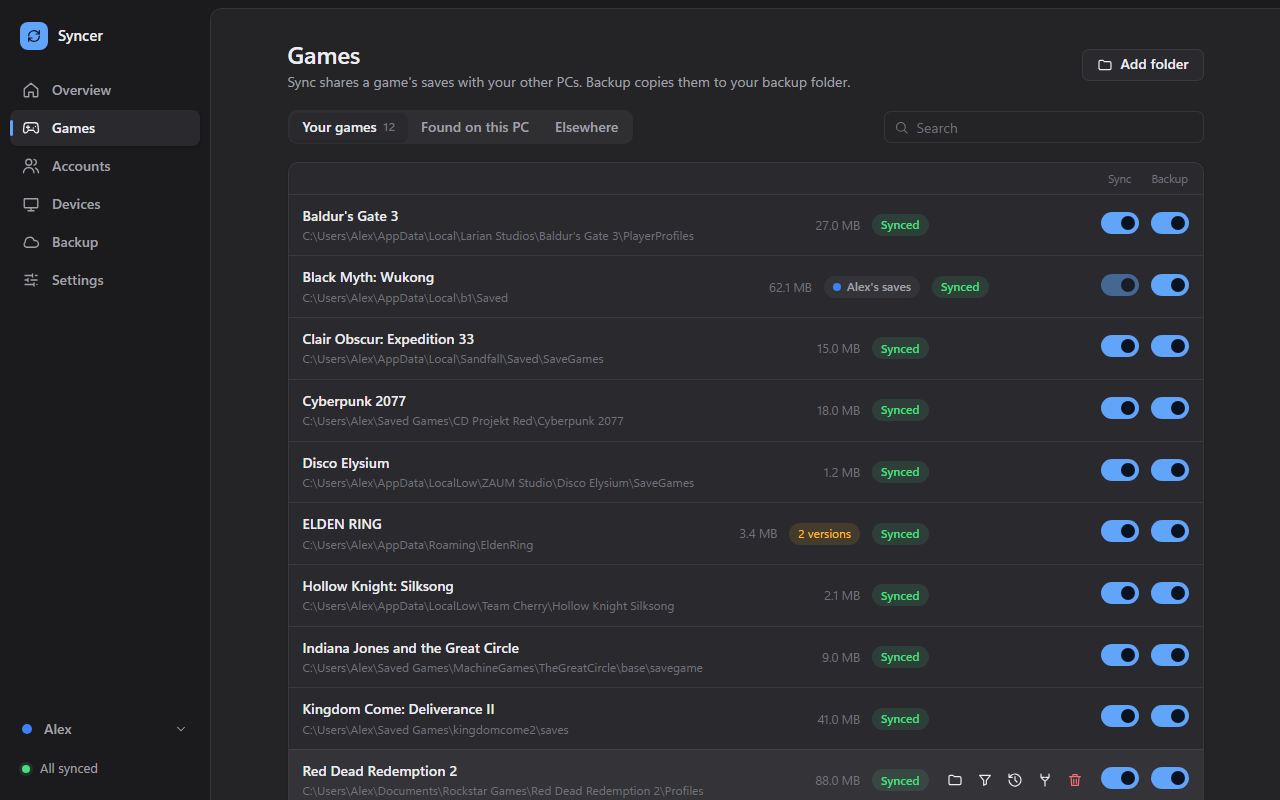
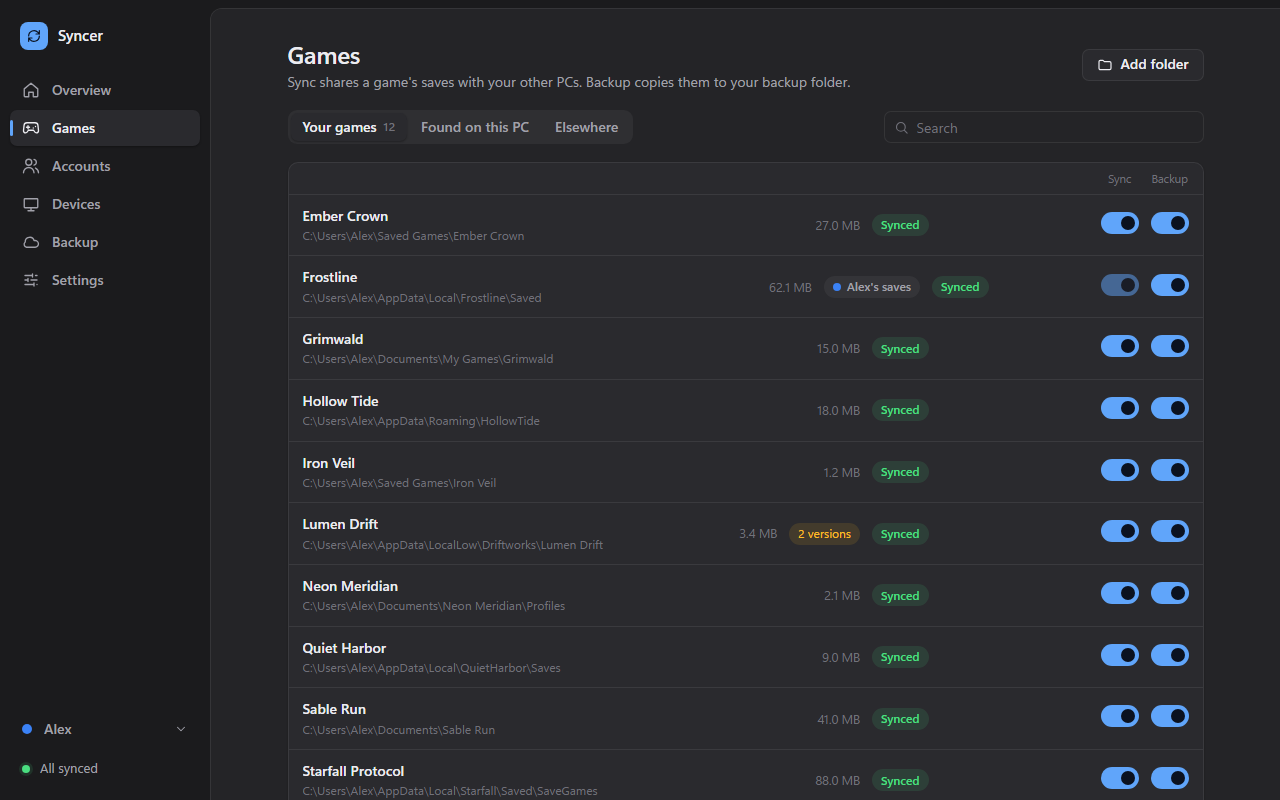
README screenshots use made-up games again

diff --git a/frontend/src/mock/install.ts b/frontend/src/mock/install.ts
@@ -69,6 +69,12 @@ export function installMock() {
     } satisfies Plain<main.FolderView>),
   )
 
+  // The public screenshots use made-up games, not real titles.
+  if (pub) {
+    const madeUp: [string, string][] = [['Ember Crown','Saved Games\\Ember Crown'],['Frostline','AppData\\Local\\Frostline\\Saved'],['Grimwald','Documents\\My Games\\Grimwald'],['Hollow Tide','AppData\\Roaming\\HollowTide'],['Iron Veil','Saved Games\\Iron Veil'],['Lumen Drift','AppData\\LocalLow\\Driftworks\\Lumen Drift'],['Neon Meridian','Documents\\Neon Meridian\\Profiles'],['Quiet Harbor','AppData\\Local\\QuietHarbor\\Saves'],['Sable Run','Documents\\Sable Run'],['Starfall Protocol','AppData\\Local\\Starfall\\Saved\\SaveGames'],['Tidewatch','AppData\\Roaming\\Tidewatch\\Saves'],['Wren Hollow','Documents\\Wren Hollow\\Saves']]
+    folders.forEach((f, i) => Object.assign(f, { label: madeUp[i][0], game: madeUp[i][0], path: `${home}\\${madeUp[i][1]}` }))
+  }
+
   // ---- accounts: Alex plays here, Sam on the laptop, Mia in the living room ----
   const alex = 'q4alxe', sam = 'p7samd', mia = 'r2miaz'
   const people: accounts.Account[] = [

diff --git a/README.md b/README.md
@@ -25,7 +25,7 @@
 |---|---|
 | <img src="docs/images/syncer-restore.png" alt="Restore dialog listing restore points, each with the PC it came from"> | <img src="docs/images/syncer-devices.png" alt="Devices page with this PC's ID and two linked PCs"> |
 
-<sub>Screenshots use mock data: made-up PCs and file sizes.</sub>
+<sub>Screenshots use made-up games and PCs.</sub>
 
 ## Install
 
